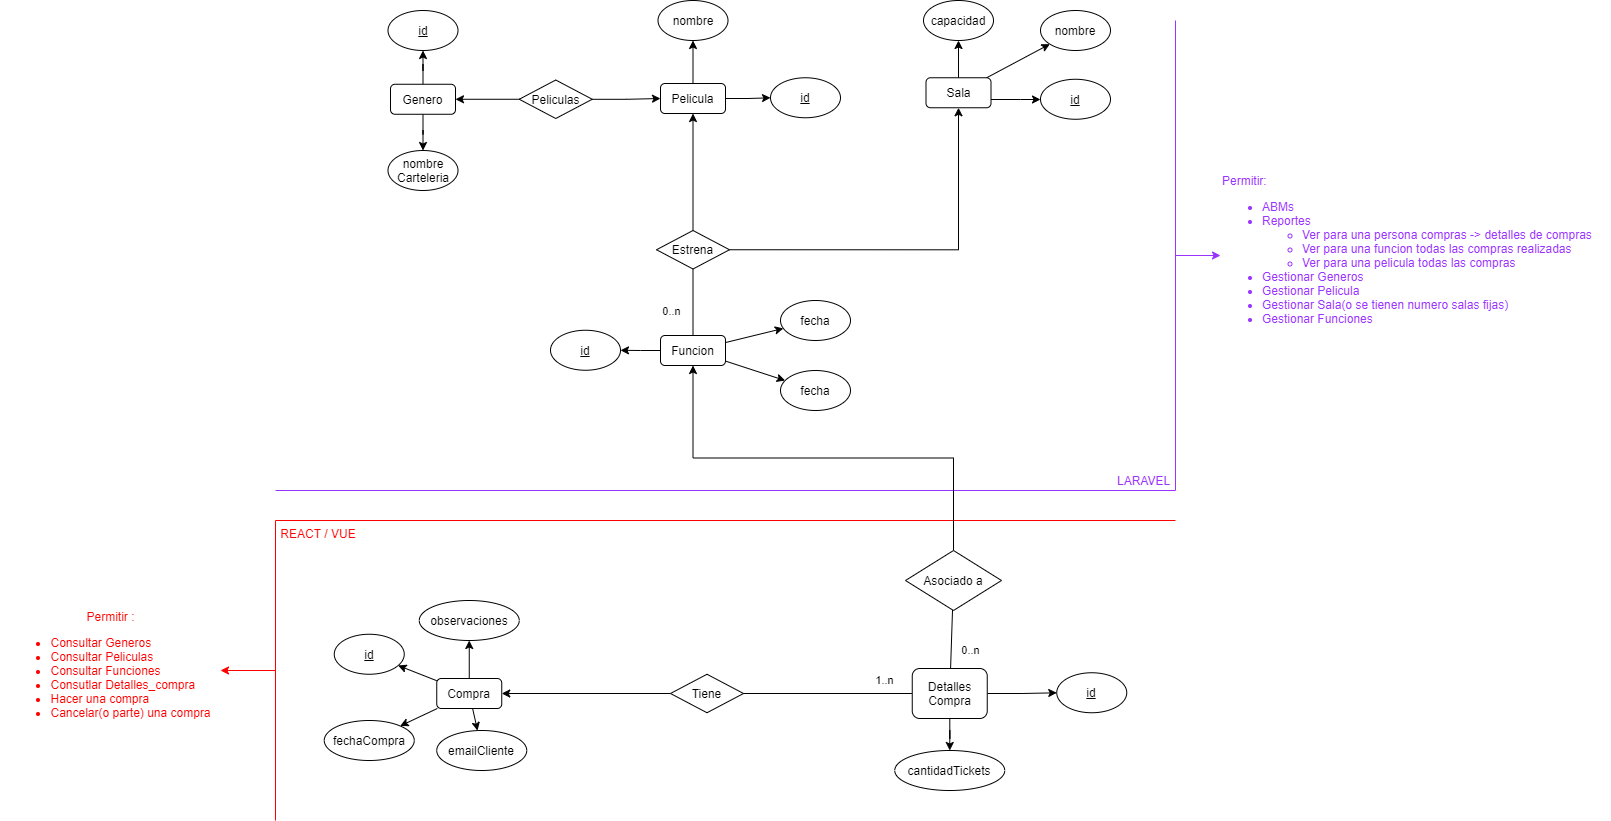
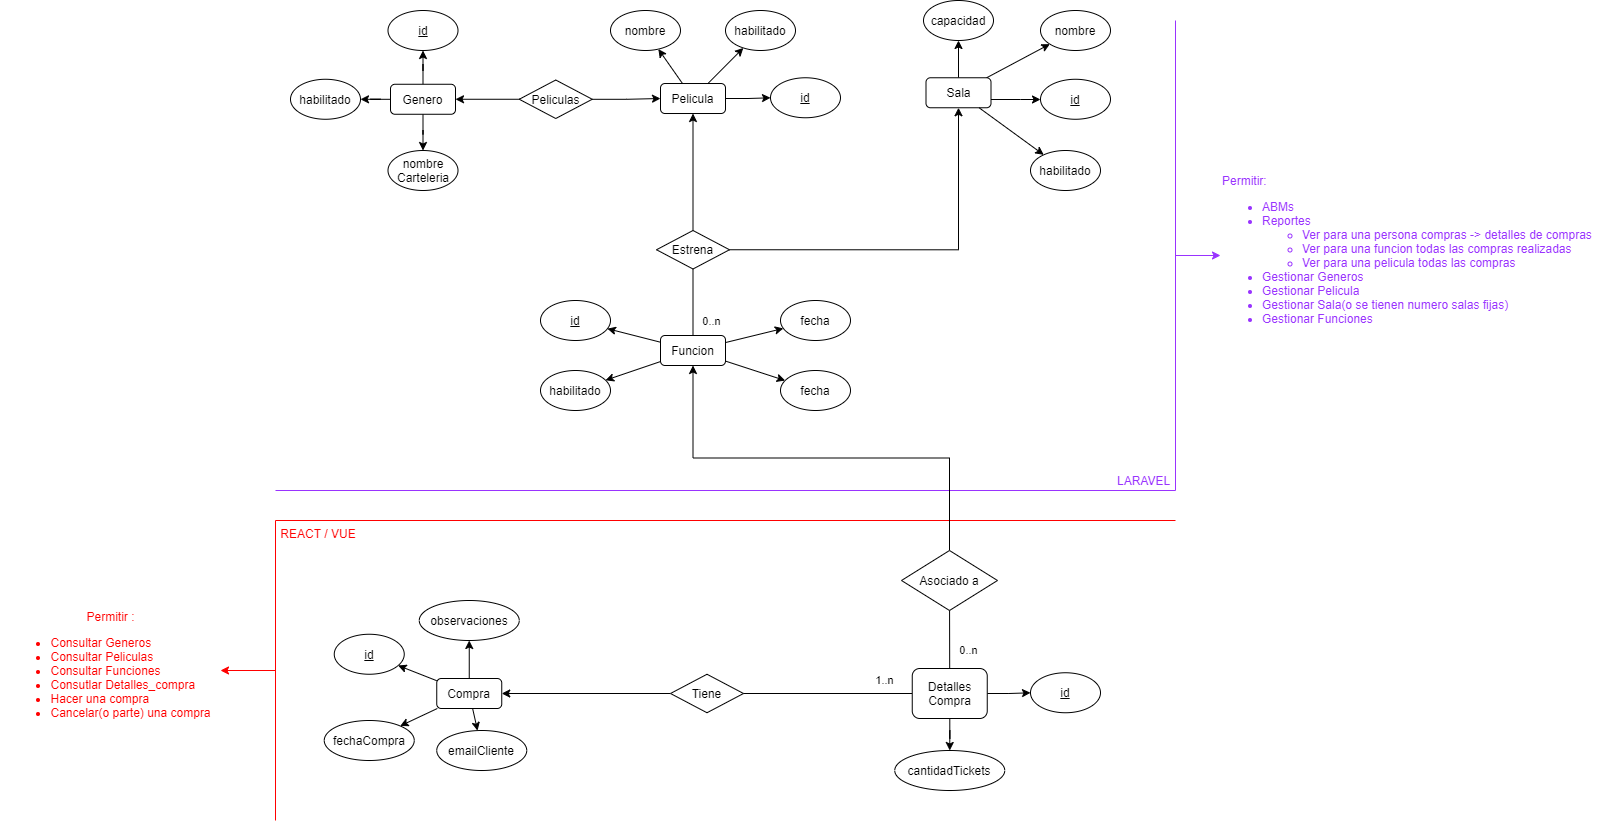
Modificacion n°13: Se modifico el seeding de Compras y sus correspondientes Detalles_Compras, se modifico el Diagrama E-R   Co-authored-by: WilbergerMatias <matias180399@gmail.com>

diff --git a/database/seeders/CompraSeeder.php b/database/seeders/CompraSeeder.php
@@ -9,14 +9,21 @@ use Illuminate\Database\Eloquent\Model;
 use Illuminate\Support\Str;
 use Carbon\Carbon;
 use App\Models\Compra;
+use App\Models\DetallesCompra;
 
 class CompraSeeder extends Seeder
 {
     /**
      * Run the database seeds.
      */
+
     public function run(): void
     {
-        Compra::factory()->count(5)->create();
+        for ($i=0; $i<5;$i++){
+            Compra::factory()->count(1)->create();
+            $detallesACrear=random_int(1,4);
+            $id = DB::getPdo()->lastInsertId();
+            DetallesCompra::factory()->count($detallesACrear)->create(['idCompra'=>$id]);
+        }
     }
 }

diff --git a/database/migrations/2023_04_06_192252_create_pelicula_table.php b/database/migrations/2023_04_06_192252_create_pelicula_table.php
@@ -14,10 +14,9 @@ return new class extends Migration
         Schema::create('pelicula', function (Blueprint $table) {
             $table->id();
             $table->string("nombre",40);
+            $table->boolean("habilitado")->default('true');
 
-            $table->foreignId("idGenero")->references("id")->on("genero");
-
-            $table->boolean("habilitado");
+            $table->foreignId("idGenero")->references("id")->on("genero");        
 
             $table->timestamps();
         });

diff --git a/database/migrations/2023_04_06_192304_create_funcion_table.php b/database/migrations/2023_04_06_192304_create_funcion_table.php
@@ -15,6 +15,7 @@ return new class extends Migration
             $table->id();
             $table->date("fecha");
             $table->time("hora");
+            $table->boolean("habilitado")->default('true');
 
             $table->foreignId("idPelicula")->references("id")->on("pelicula");
             $table->foreignId("idSala")->references("id")->on("sala");

diff --git a/database/migrations/2023_04_06_192232_create_genero_table.php b/database/migrations/2023_04_06_192232_create_genero_table.php
@@ -14,8 +14,7 @@ return new class extends Migration
         Schema::create('genero', function (Blueprint $table) {
             $table->id();
             $table->string("nombre",25)->unique();
-
-            $table->boolean("habilitado");
+            $table->boolean("habilitado")->default('true');
 
             $table->timestamps();
         });

diff --git a/database/migrations/2023_04_06_192258_create_sala_table.php b/database/migrations/2023_04_06_192258_create_sala_table.php
@@ -15,8 +15,7 @@ return new class extends Migration
             $table->id();
             $table->string("nombre",40);
             $table->integer("capacidadMaxima");
-
-            $table->boolean("habilitado");
+            $table->boolean("habilitado")->default('true');
 
             $table->timestamps();
         });

diff --git a/database/seeders/DatabaseSeeder.php b/database/seeders/DatabaseSeeder.php
@@ -22,8 +22,6 @@ class DatabaseSeeder extends Seeder
              SalaSeeder::class,            
              FuncionSeeder::class,
              CompraSeeder::class,
-             DetallesCompraSeeder::class,
-             
         ]);
     }
 }

diff --git a/app/Models/Sala.php b/app/Models/Sala.php
@@ -10,7 +10,8 @@ class Sala extends Model
     use HasFactory;
     protected $table = 'sala';
     protected $fillable = [
-        'nombre', 'capacidadMaxima'
+        'nombre', 
+        'capacidadMaxima'
     ];
 
     /*
